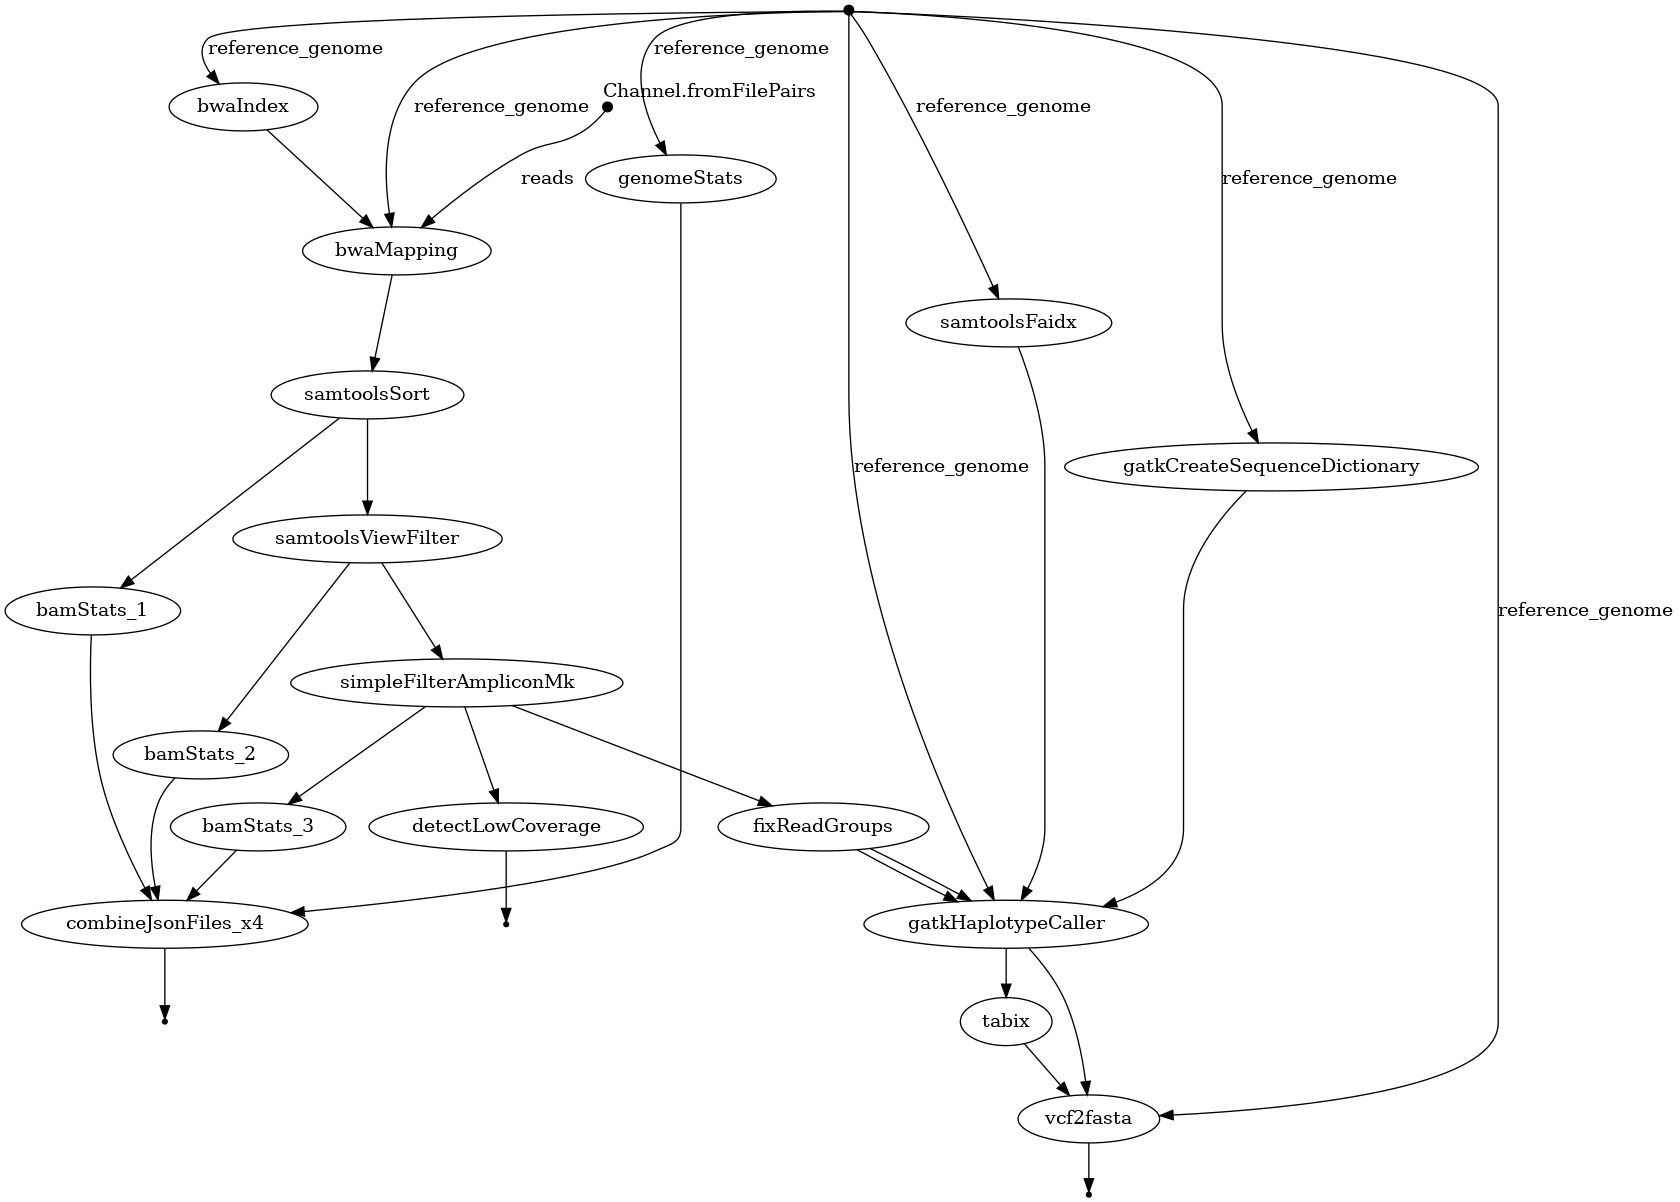
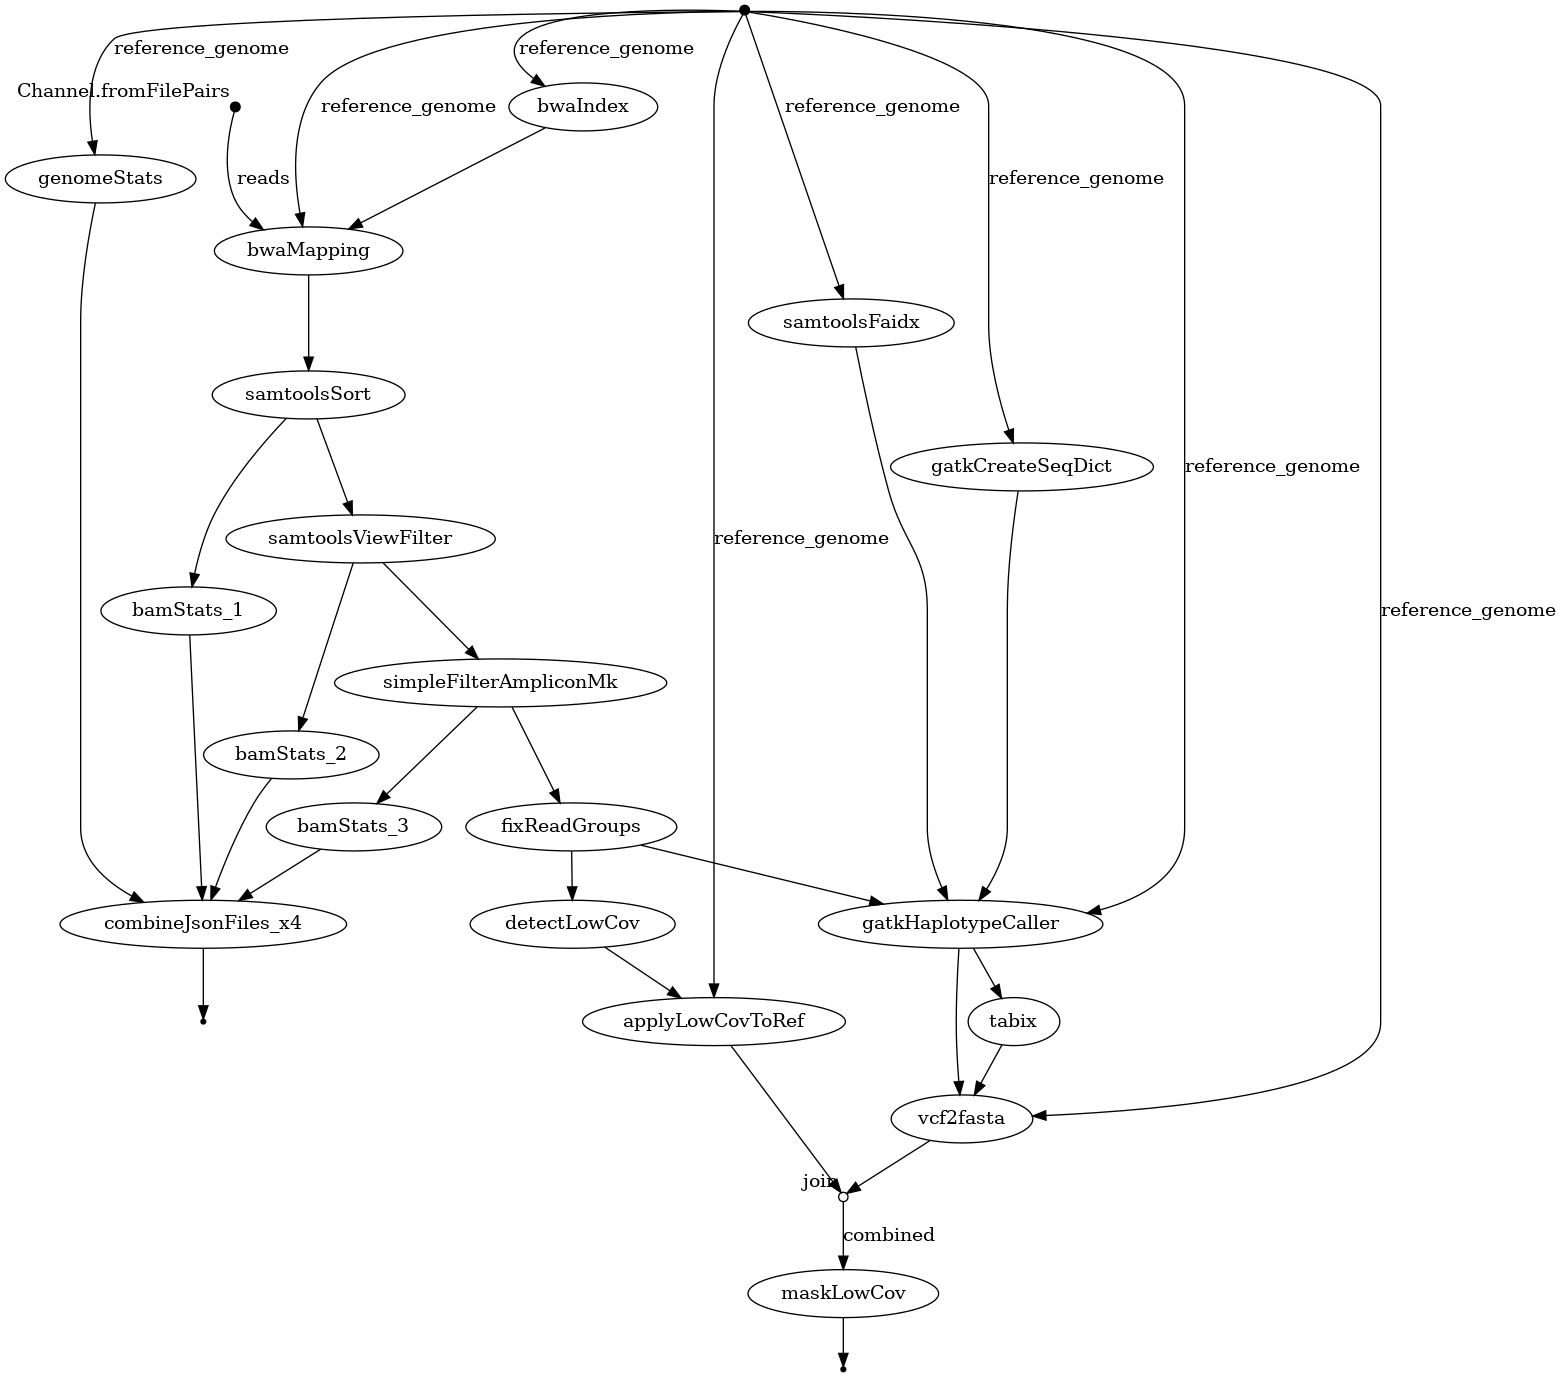
Masking low coverage sequences
Added modules:
- applyLowCovToRef.nf
- maskLowCov.nf
Renamed few other to make names shorter.
Using `left.join(right)` to make sure that different samples are not mixed togather.

diff --git a/bin/parseMaskedAlignedFasta.py b/bin/parseMaskedAlignedFasta.py
@@ -1,0 +1,58 @@
+#!/usr/bin/env python
+
+"""Parse alignment with masked reference sequence and output a fasta.
+
+This script takes an alignment file with two seqences:
+- a reference sequence with masked regions (N's)
+- a sample sequence from SV/INDEL/SNP caller.
+It outputs a sample sequence with masked regions where the reference
+sequence is masked.
+
+Example:
+    Ref:    NNNNNCTGNNNACTGACTGA---CTGNNN
+    Sample: ACTGACTGACTACT---TGAACTCTGACT
+    Output: NNNNNCTGNNNACTTGAACTCTGNNN
+
+Deletions takes priority over masking.
+
+Biopython.SeqIO is used to handle fasta files.
+"""
+
+import argparse
+
+import Bio.SeqIO
+
+
+def parse_alignment(alignment_path, output_path):
+    with open(alignment_path, 'r') as f:
+        alignment = Bio.SeqIO.parse(f, 'fasta')
+        ref = next(alignment)
+        sample = next(alignment)
+
+    output = ''
+    # ref = ref.seq.lower()
+    # sample = sample.seq.lower()
+    for r, s in zip(ref.seq, sample.seq):
+        if s == '-':
+            continue
+        else:
+            if r == 'n':
+                output += 'n'
+            else:
+                output += s
+    record = Bio.SeqIO.SeqRecord(Bio.Seq.Seq(output), id=sample.id)
+
+    with open(output_path, "w") as output_handle:
+        Bio.SeqIO.write([record], output_handle, "fasta")
+
+
+def main():
+    parser = argparse.ArgumentParser(description=__doc__)
+    parser.add_argument('alignment', help='alignment file')
+    parser.add_argument('output', help='output fasta file')
+    args = parser.parse_args()
+    parse_alignment(args.alignment, args.output)
+
+
+if __name__ == '__main__':
+    main()

diff --git a/README.md b/README.md
@@ -13,7 +13,10 @@ This pipeline requires the following software to be installed:
 - python 3.9.x
 - bwa
 - samtools
-- nproc
+- bedtools
+- bcftools
+- tabix
+- mafft
 - [picard](https://broadinstitute.github.io/picard/)
 - [gatk4](https://gatk.broadinstitute.org/hc/en-us)
 
